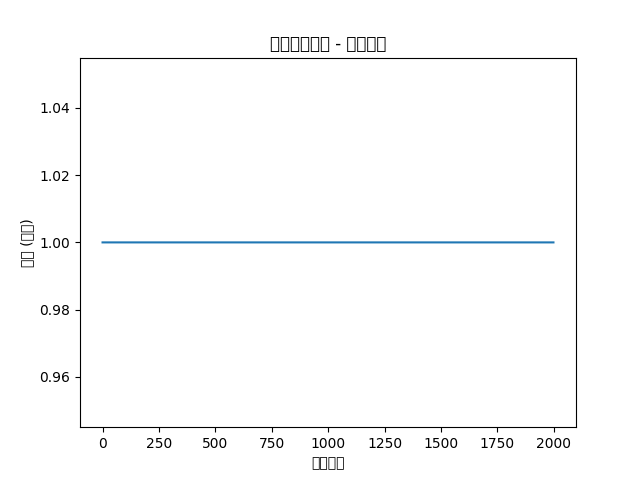
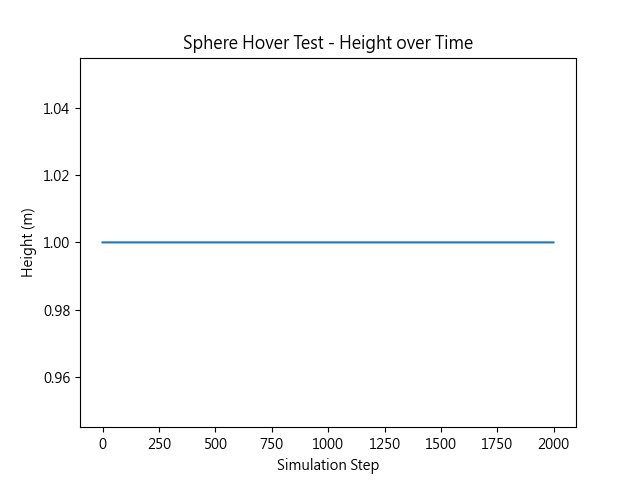
完成Day15:PyBullet懸停模擬,改用DIRECT模式與圖表驗證(GUI在此設備上有顯示卡相容性問題)

diff --git a/day15_hover.py b/day15_hover.py
@@ -1,6 +1,9 @@
 import pybullet as p
 import pybullet_data
 import time
+import matplotlib
+matplotlib.rcParams['font.sans-serif'] = ['Microsoft JhengHei']
+matplotlib.rcParams['axes.unicode_minus'] = False
 import matplotlib.pyplot as plt
 
 physicsClient = p.connect(p.DIRECT)
@@ -43,9 +46,9 @@ print(f"最終高度: {heights[-1]:.3f} 公尺", flush=True)
 print(f"起始高度: {heights[0]:.3f} 公尺", flush=True)
 
 plt.plot(heights)
-plt.xlabel("模擬步數")
-plt.ylabel("高度 (公尺)")
-plt.title("球體懸停測試 - 高度變化")
+plt.xlabel("Simulation Step")
+plt.ylabel("Height (m)")
+plt.title("Sphere Hover Test - Height over Time")
 plt.savefig("day15_hover_result.png")
 # 用意:把整個模擬過程中高度隨時間變化的曲線畫成圖表,存成圖片檔
 # 原理:比起看3D動畫,這種數據圖表更直接證明「懸停有沒有成功」——
